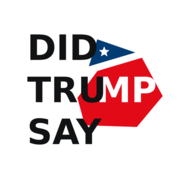
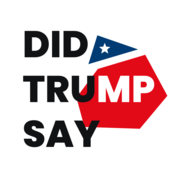
Change svg for png

Changed region(s): [[0.0938, 0.1562, 0.875, 0.7812]]

diff --git a/client/src/views/Home.vue b/client/src/views/Home.vue
@@ -4,7 +4,7 @@
       <section id="hero">
         <div id="hero-logo">
           <img
-            src="../assets/logo.svg"
+            src="../assets/logo.png"
             alt="Website logo, Did Trump Say is written on red republican and blue democrate background."
           />
         </div>
